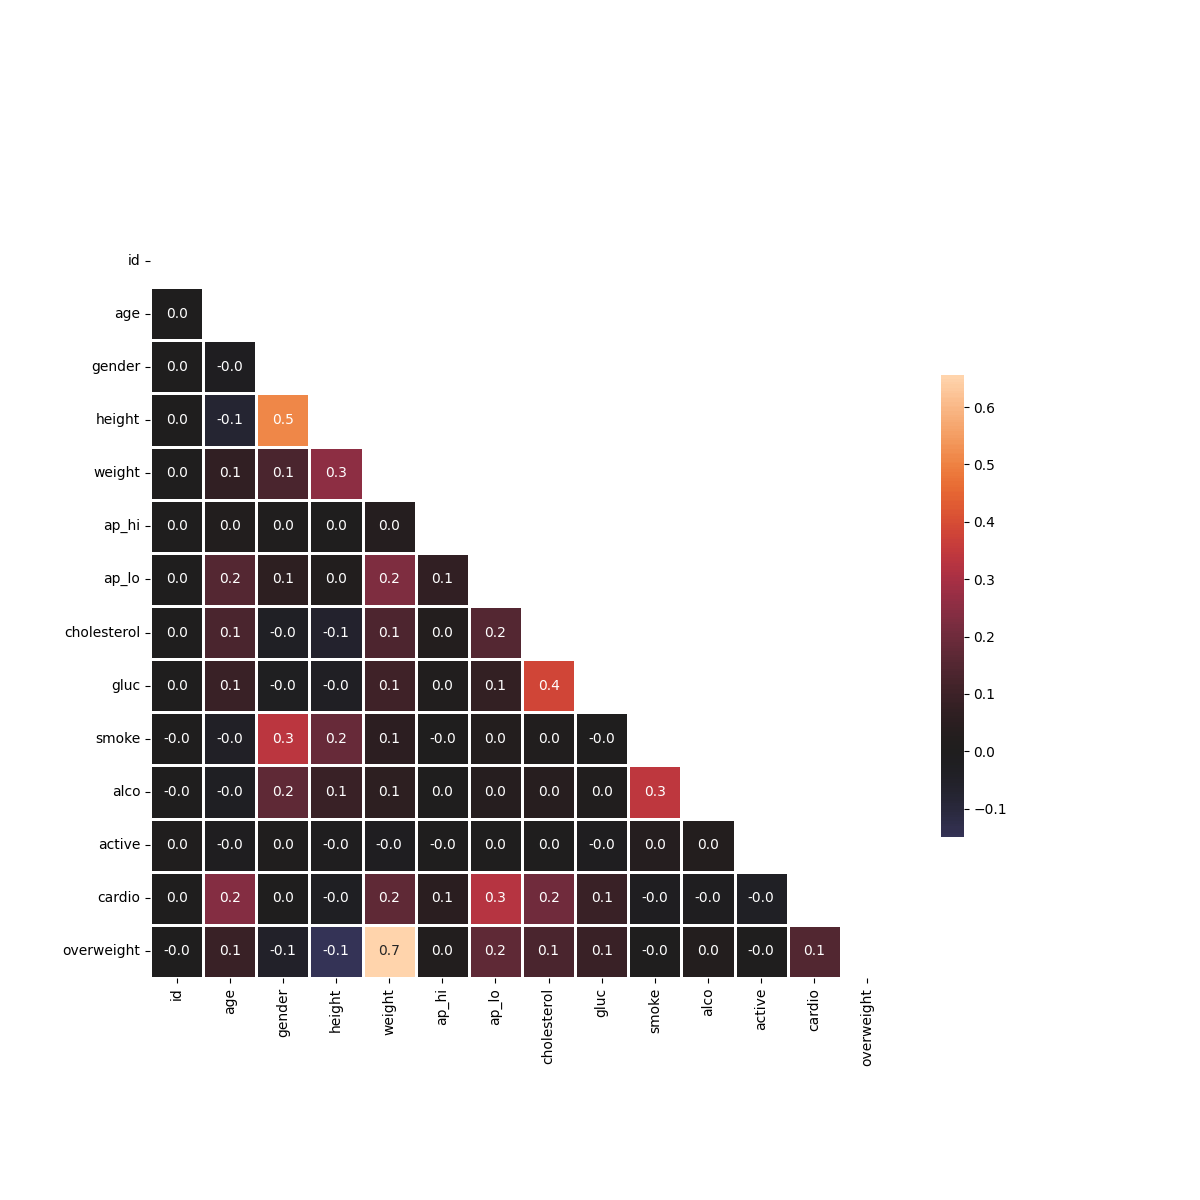
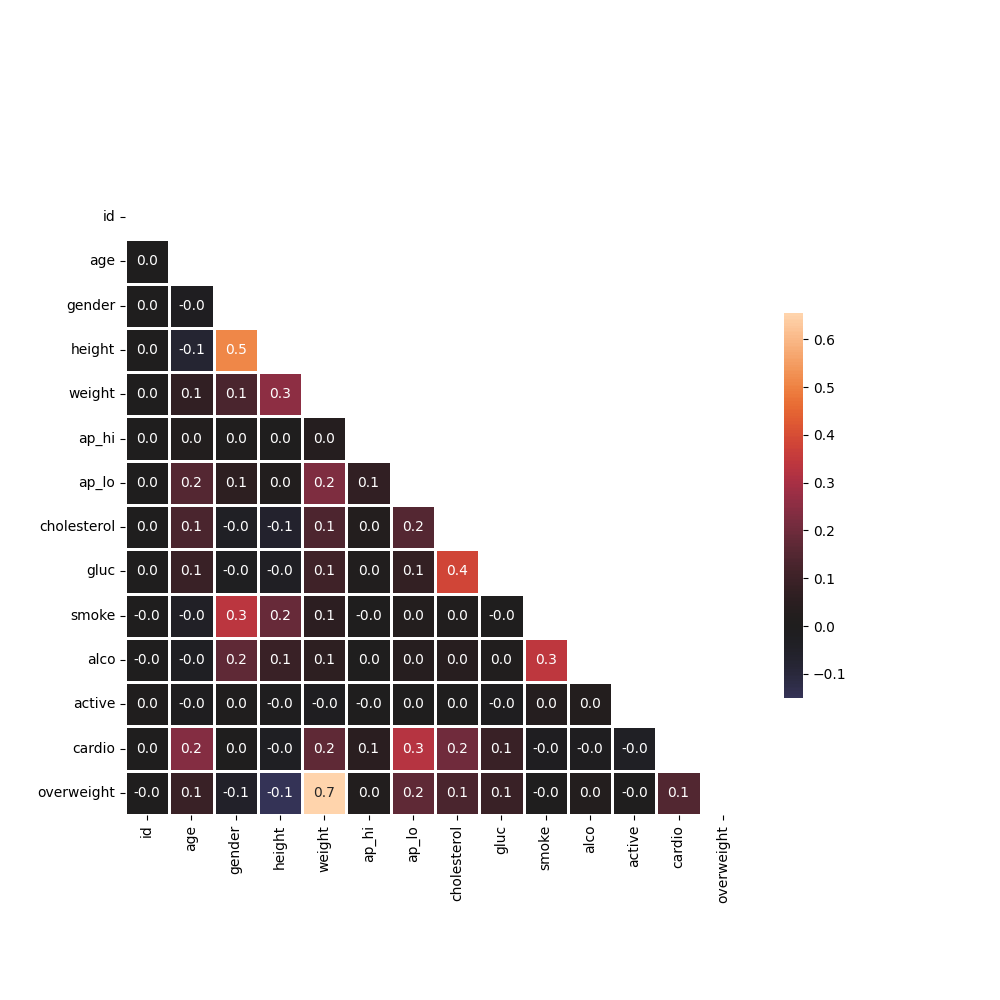
Initial commit

diff --git a/medical_data_visualizer.py b/medical_data_visualizer.py
@@ -53,10 +53,10 @@ def draw_heat_map():
     mask[np.triu_indices_from(mask)] = True
 
     # Set up the matplotlib figure
-    fig, ax = plt.subplots(figsize=(12, 12))
+    fig, ax = plt.subplots(figsize=(10, 10))
 
     # Draw the heatmap with 'sns.heatmap()'
-    ax = sns.heatmap(corr, mask=mask, linewidths=1, square=True, annot=True, center=0.00, fmt=".1f", cbar_kws={"shrink": .5})
+    ax = sns.heatmap(corr, mask=mask, linewidths=1, square=True, annot=True, center=0, fmt=".1f", cbar_kws={"shrink": .5})
 
     # Do not modify the next two lines
     fig.savefig('heatmap.png')
